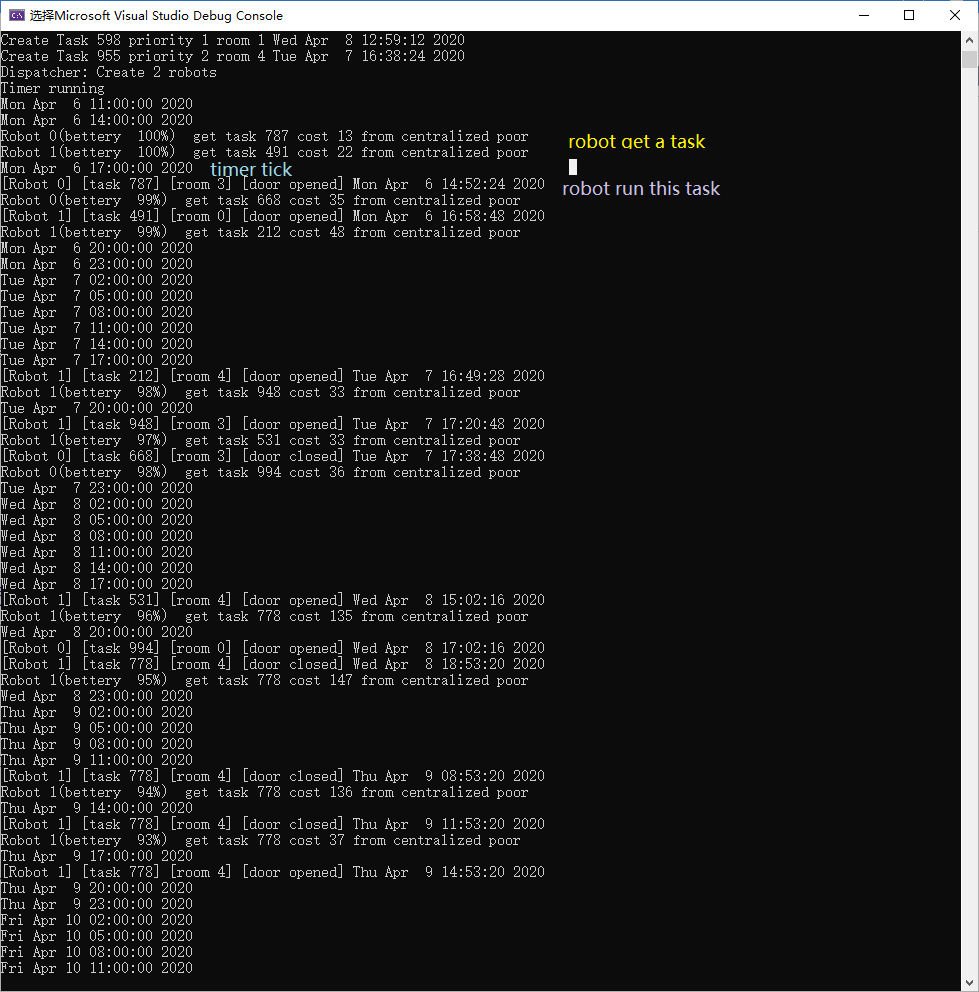
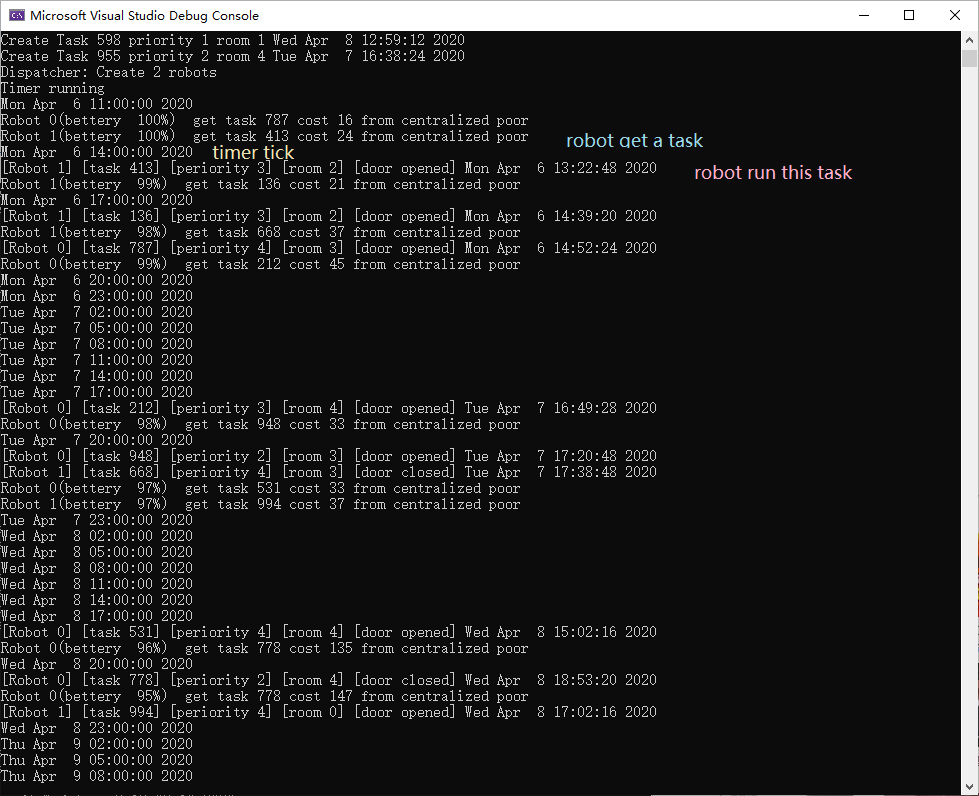
modify read me

diff --git a/src/EnterRoomTask.cpp b/src/EnterRoomTask.cpp
@@ -34,8 +34,8 @@ bool EnterRoomTask::process(int robot_id)
 	strstream stream;
 	sprintf_s(path, "../simulation/door_status_room_%d.txt", rt.room_id);
 	status = Util::GetDoorStatusFromFile(rt, path);
-	sprintf_s(buf,"[Robot %d] [task %.3d] [room %d] [door %s] %s",robot_id,
-		this->task_id, rt.room_id, status ? "opened" : "closed", ctime(&rt.calendar_time));
+	sprintf_s(buf,"[Robot %d] [task %.3d] [periority %d] [room %d] [door %s] %s",robot_id,
+		this->task_id, this->priority,rt.room_id,status ? "opened" : "closed", ctime(&rt.calendar_time));
 	task_print(buf);
 	return status; // return door status
 }
